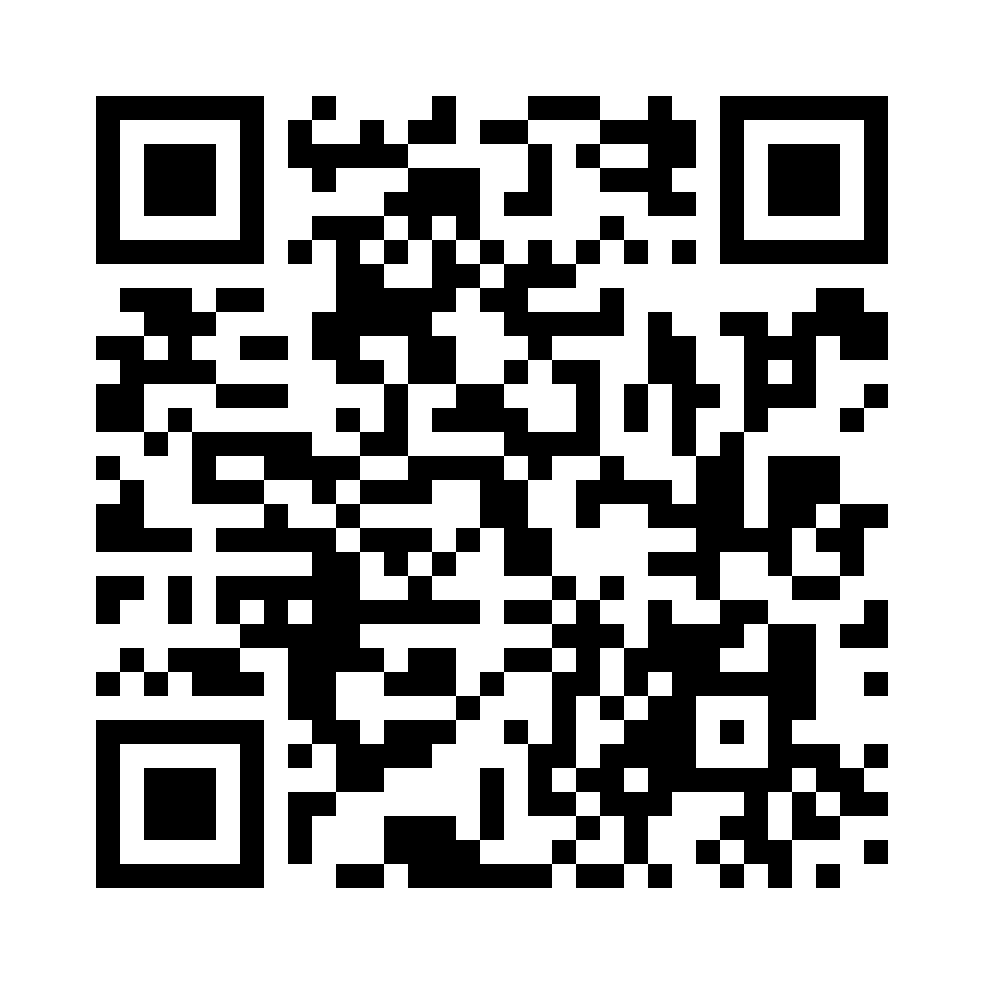
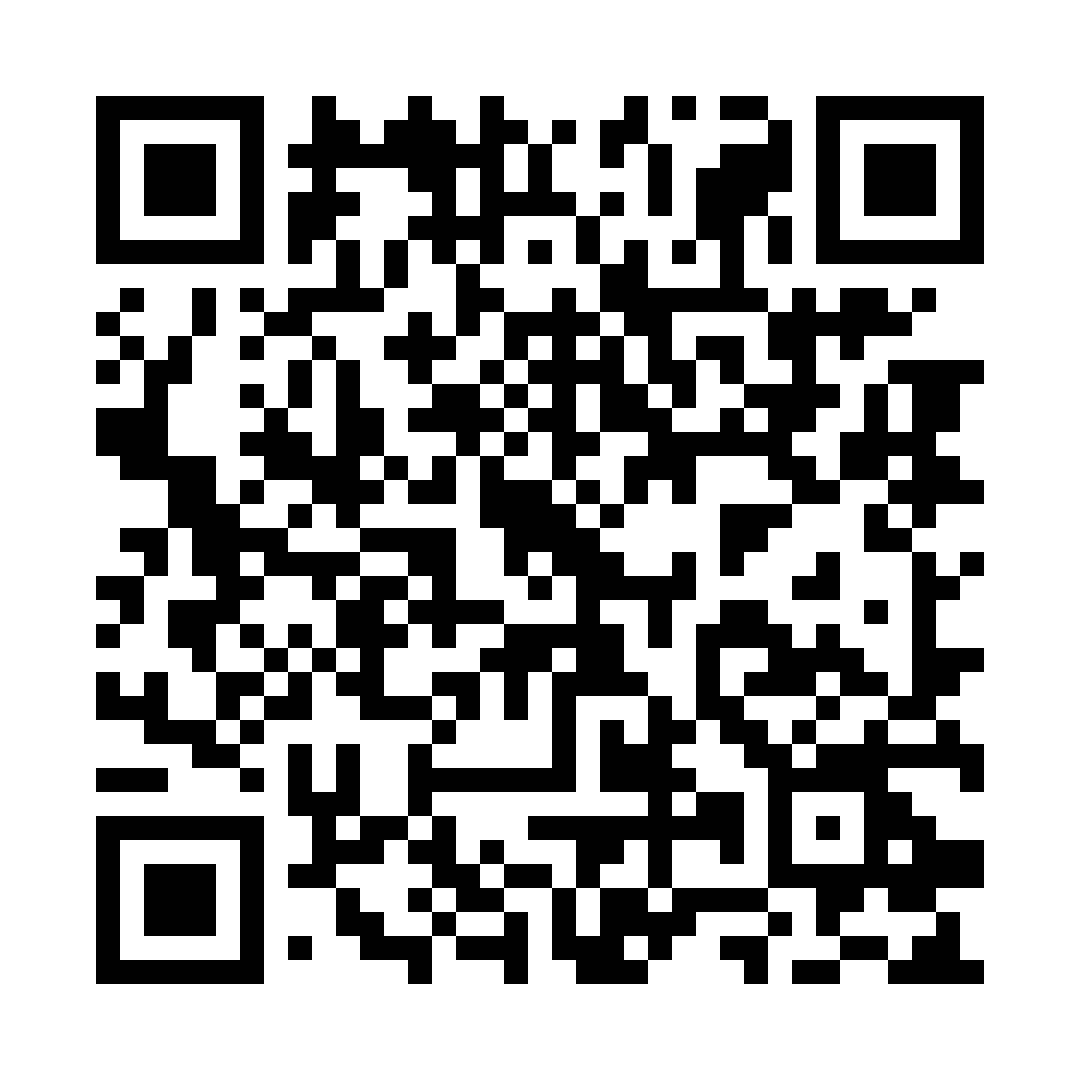
Versión blanca como página principal y QR corregido

diff --git a/index.html b/index.html
@@ -1,11 +1,11 @@
 <!DOCTYPE html>
-<html lang="es" data-theme="light">
+<html lang="es" data-theme="dark">
 <head>
 <meta charset="utf-8">
 <meta name="viewport" content="width=device-width, initial-scale=1, viewport-fit=cover">
 <title>Ari | Marketing digital, contenido y redes sociales</title>
 <meta name="description" content="Ari: marketing digital, estrategia de contenidos, redes sociales, vídeo y branding. Portfolio con recaps de eventos, entrevistas, street marketing, storytelling y producto.">
-<meta name="theme-color" content="#FFF8F3">
+<meta name="theme-color" content="#120A0E">
 <meta property="og:type" content="profile">
 <meta property="og:title" content="Ari | Marketing digital, contenido y redes sociales">
 <meta property="og:description" content="Estrategia, contenido audiovisual y redes sociales para marcas. Portfolio de vídeos.">
@@ -20,8 +20,8 @@
   (function () {
     var d = document.documentElement, t = null;
     d.classList.add('js');
-    try { t = localStorage.getItem('tema-ari-blanco'); } catch (e) {}
-    if (t !== 'dark') { t = 'light'; }  /* versión blanca: claro por defecto */
+    try { t = localStorage.getItem('tema-ari-v2'); } catch (e) {}
+    if (t !== 'light') { t = 'dark'; }  /* oscuro por defecto, aunque el sistema esté en modo claro */
     d.setAttribute('data-theme', t);
   })();
 </script>
@@ -874,7 +874,7 @@ var VIDEOS = [
   $("#theme").addEventListener("click", function () {
     var d = document.documentElement, t = d.getAttribute("data-theme") === "dark" ? "light" : "dark";
     d.setAttribute("data-theme", t);
-    try { localStorage.setItem("tema-ari-blanco", t); } catch (e) {}
+    try { localStorage.setItem("tema-ari-v2", t); } catch (e) {}
   });
 
   /* ---------- Menú móvil ---------- */

diff --git a/qr/generar_qr.py b/qr/generar_qr.py
@@ -11,7 +11,7 @@ el codificador (modo byte, corrección de errores nivel Q) está aquí mismo.
 import os
 import sys
 
-URL_POR_DEFECTO = "https://diegofdzortega.github.io/Web_Ari/"
+URL_POR_DEFECTO = "https://diegofdzortega.github.io/Web_marketing/"
 
 # Tablas del estándar QR (índice = versión). Orden de niveles: L, M, Q, H
 ECC_POR_BLOQUE = [

diff --git a/README.md b/README.md
@@ -7,9 +7,9 @@ Portfolio de vídeos (edición + guiones) de Ari. Un solo `index.html`, sin depe
 - **Vídeos:** array `VIDEOS` justo debajo. Para añadir uno, copia una línea y cambia `t` (título), `f` (formato) e `id` (lo que va después de `/reel/` en el enlace).
 
 ## Publicar en GitHub Pages
-1. Crea el repo `Web_Ari` en GitHub y sube esta carpeta.
+1. Crea el repo `Web_marketing` en GitHub y sube esta carpeta.
 2. Settings → Pages → Branch `main`, carpeta `/ (root)`.
-3. La web queda en `https://diegofdzortega.github.io/Web_Ari/`.
+3. La web queda en `https://diegofdzortega.github.io/Web_marketing/`.
 
 ## Código QR para el CV
 `qr/qr-web-ari.svg` (vectorial, mejor para el CV) y `qr/qr-web-ari.png` apuntan a la URL de arriba.
